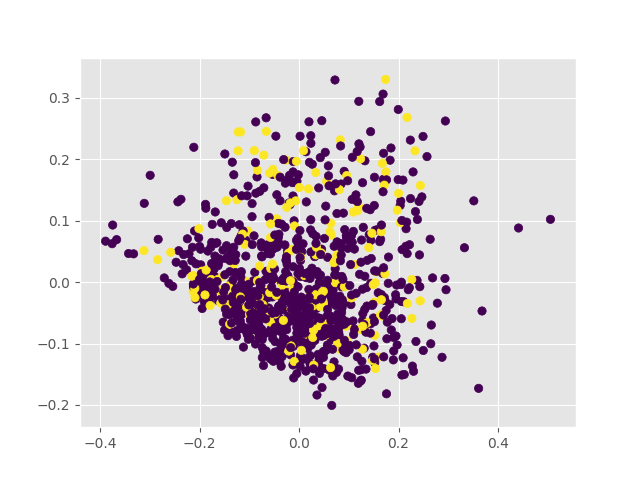
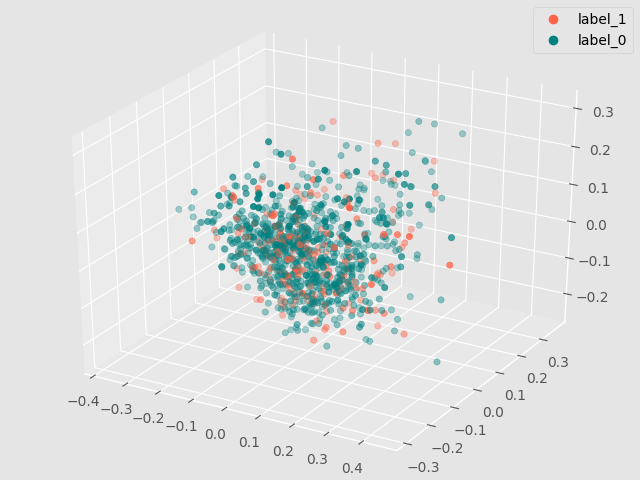
Train data distribution

diff --git a/PPE.py b/PPE.py
@@ -9,9 +9,12 @@ import string
 import sys
 from collections import defaultdict, Counter
 
+import matplotlib
 import matplotlib.pyplot as plt
 import nltk
 import numpy as np
+from matplotlib import pyplot
+from mpl_toolkits.mplot3d import Axes3D
 from nltk.corpus import stopwords, wordnet
 from nltk.sentiment import SentimentIntensityAnalyzer
 from pygments.util import xrange
@@ -640,9 +643,19 @@ def experiment_train_data_distribution():
     ])
     random_samples = sorted(random.sample(xrange(len(train_data)), 1000))
     data = pipeline.fit_transform([train_data[i] for i in random_samples]).todense()
-    pca = PCA(n_components=2).fit(data)
+    pca = PCA(n_components=3).fit(data)
     X = pca.transform(data)
-    plt.scatter(X[:, 0], X[:, 1], c=[train_labels[i] for i in random_samples])
+    fig = pyplot.figure()
+    ax = Axes3D(fig)
+    # ax.scatter(sequence_containing_x_vals, sequence_containing_y_vals, sequence_containing_z_vals)
+    # pyplot.show()
+
+    ax.scatter(X[:, 0], X[:, 1], X[:, 2], c=['tomato' if train_labels[i] == 1 else 'teal' for i in random_samples])
+    # plt.legend([a.collections[0], b.collections[0]], ["Label 0", "Label 1"],
+    #            loc="upper right")
+    scatter1_proxy = matplotlib.lines.Line2D([0], [0], linestyle="none", c='tomato',marker = 'o')
+    scatter2_proxy = matplotlib.lines.Line2D([0], [0], linestyle="none", c='teal',marker = 'o')
+    ax.legend([scatter1_proxy, scatter2_proxy], ['label_1', 'label_0'], numpoints=1)
     plt.savefig("plots/train-data-distribution.png")
     plt.close()
 
